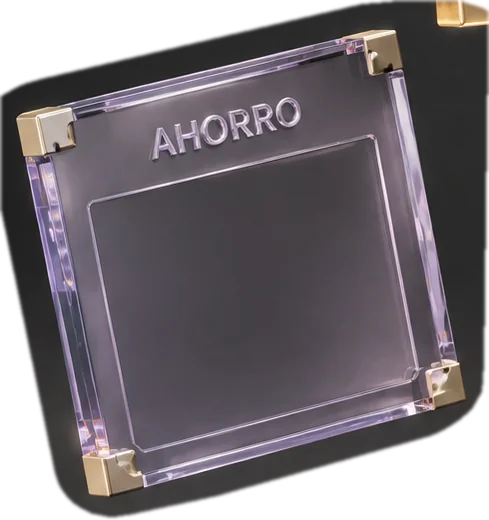
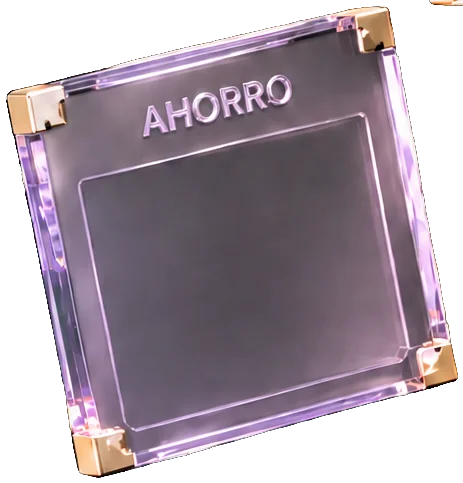
Corrige recorte de las placas de Cristal 3D con clave de croma real
El usuario mostró capturas reales del teléfono: cada placa tenía un
halo oscuro de fondo pegado (y en la variante ejecutiva, algunas
casi no se veían). Confirmado componiendo las 10 imágenes sobre
magenta saturado: mi recorte anterior (diferencia de fondo +
envolvente convexa) dejaba pegado un pedazo del degradado oscuro
original — no hay forma de separar limpio un fondo con degradado y
viñeta de esa manera. El paquete nuevo que mandó el usuario tenía el
mismo defecto exacto, confirmado con la misma prueba.

Se le pidió al usuario que su IA regenerara las mismas 2 escenas
sobre fondo de croma verde sólido en vez del estudio oscuro. Con eso,
recorte real por clave de croma (distancia de color + despill),
componentes conexos identificados por posición — mucho más robusto,
funcionó de una. Mismos nombres de archivo, sin tocar Cristal3D.tsx.

Claude-Session: https://claude.ai/code/session_01K6uWZuG7gpgnHkuUxP5rgn

diff --git a/PLAN-MAESTRO.md b/PLAN-MAESTRO.md
@@ -1131,3 +1131,15 @@ El usuario reportó un bug de datos, no visual: hizo 3 viajes seguidos usando SO
 **Verificado con datos reales, no solo compilación:** se sembró `localStorage` con 3 viajes (2 con `ingresoPendiente: true`, 1 normal) y se renderizó `/` con Playwright — las 2 tarjetas de "pendiente" aparecen por separado, cada una con su propio campo, el historial marca "Falta el ingreso" en las 2 y el monto real en la tercera, y el total de km/viajes del día ya cuenta las 3 (el km es real, ya pasó, no depende de que se escriba el ingreso). `npm run build` limpio en `app/` y `server/`, `prisma generate` corrido de nuevo para el campo nuevo. **No verificado:** el teléfono real del usuario, ni la migración corriendo contra la base de datos de verdad (no hay conexión a la BD en este entorno — la migración se aplica sola en el próximo deploy vía `prisma:deploy`).
 
 **Fuera de alcance a propósito:** no se tocó `BurbujaService.kt` (el estado nativo duplicado `enViaje`/reloj) — con el fix de JS, cada "iniciar" nativo ya dispara un `iniciarViaje()` real de inmediato (nunca más queda "ocupado" el slot), así que el síntoma reportado (viajes perdidos, reloj/km fantasma) desaparece sin tocar Kotlin. Si más adelante se nota que la burbuja narra algo que el JS todavía no procesó, ahí sí tocaría sincronizar los dos estados de verdad — no hace falta hoy.
+
+## 2026-09-16 (misma sesión, decimoprimera ronda) — Cristal 3D: las 10 placas se recortaban con fondo pegado, corregido con croma real
+
+El usuario mandó capturas reales del teléfono (no de Ajustes, del Balance de verdad) mostrando el defecto: alrededor de cada placa se veía un halo rectangular oscuro de más, y en la variante ejecutiva algunas placas (Ahorro, Libre) casi no se veían — quedó "cortada con fondo y todo". Lo confirmé yo mismo componiendo las 10 imágenes sobre un fondo magenta saturado (cualquier resto de fondo salta a la vista con ese color) — cierto: el recorte que yo mismo había hecho (segmentación por diferencia de fondo + envolvente convexa, ronda anterior) dejaba pegado un pedazo del fondo oscuro degradado de la escena original en varias placas, sobre todo en la versión negro/bronce (mucho menos contraste entre placa y fondo). El paquete nuevo que mandó el usuario ese mismo día ("glass-finance-chart-real-package") tenía el mismo defecto exacto — confirmado con la misma prueba — así que no servía para reemplazar nada.
+
+**Causa raíz real:** el fondo original de las escenas es un degradado oscuro con viñeta y sombras suaves — no hay un límite nítido entre "placa" y "fondo" para que ningún método de diferencia/umbral lo separe bien. Se le explicó esto al usuario y se le dio un prompt para pedirle a su IA (Emma) que regenerara las mismas 2 escenas (mismos materiales, composición, grabado, espacio vacío para el dato) pero sobre **fondo de croma sólido** (verde puro, sin degradado) en vez del estudio oscuro — igual que se usa en video para recortar personas.
+
+**Funcionó de una.** El usuario mandó las 2 escenas nuevas sobre verde puro (`pulse-finance-chroma-assets.zip`) — verificado por código que el fondo es un color sólido casi exacto en las 4 esquinas (`~RGB(9,248,23)`). Recorte propio con clave de croma real (no con diferencia de fondo): distancia de cada píxel al verde exacto → alfa 0/255 con banda suave para anti-aliasing en los bordes, más *despill* (recorta el canal verde que se cuela en los bordes semitransparentes del vidrio). Componentes conexos sobre la máscara → 5 placas por escena, identificadas automáticamente por posición (centro/arriba-izq/arriba-der/abajo-izq/abajo-der) en vez de coordenadas fijas a mano — mucho más robusto que el método anterior. Confirmado otra vez sobre fondo magenta: bordes limpios, sin fondo pegado, en las 10.
+
+**Reemplazo directo:** mismos nombres de archivo en `app/src/assets/cristal3d/` (2.8MB → 208KB en WebP), sin tocar `Cristal3D.tsx` ni la posición/rotación de cada placa — el componente ya estaba armado para recibir estas 5+5 imágenes, solo hacía falta que el recorte fuera bueno.
+
+**Verificado con render real, no solo a ojo sobre negro:** Playwright contra `/ajustes` con ambas variantes — comparado contra las capturas del teléfono que mandó el usuario, ya no aparece el halo ni el pedazo de fondo. `npm run build` limpio en `app/` y `server/`. **No verificado:** el teléfono real del usuario (sigue siendo el límite de este entorno).
